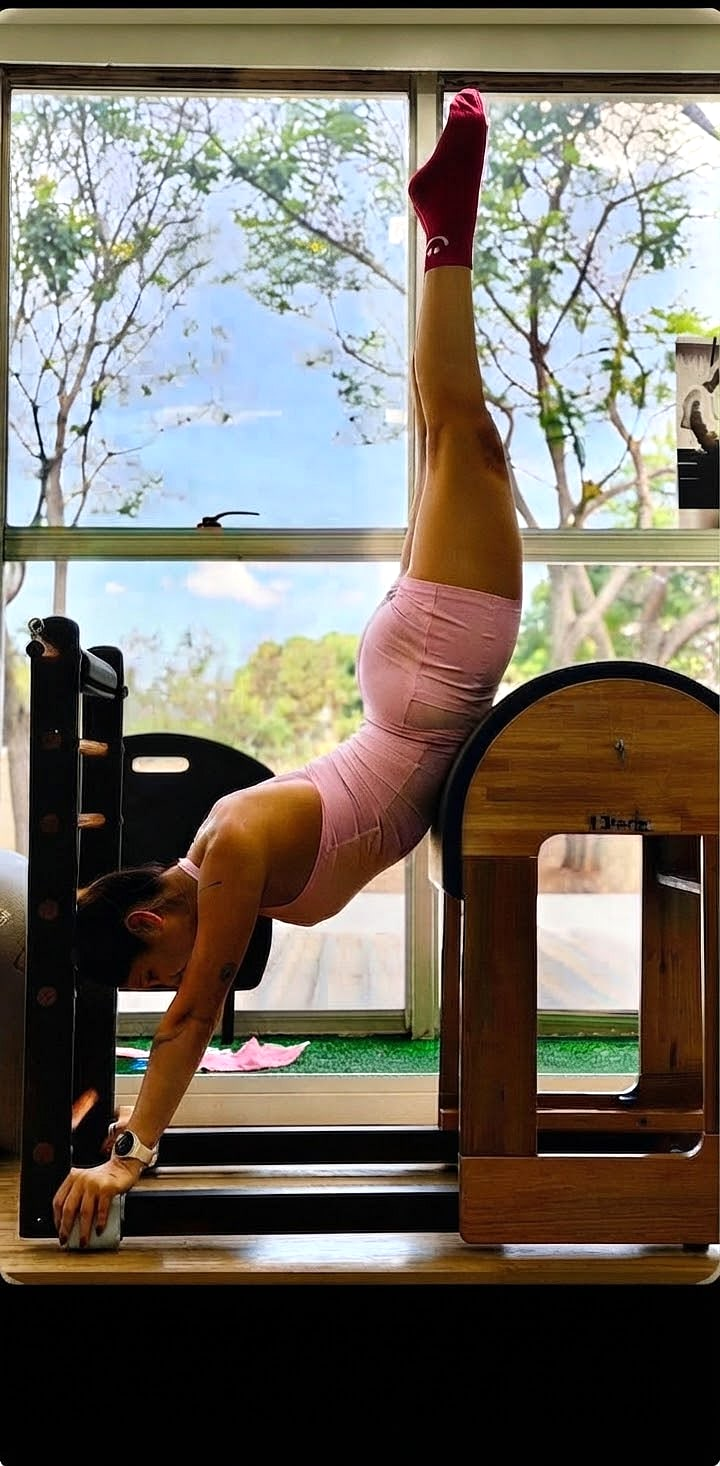
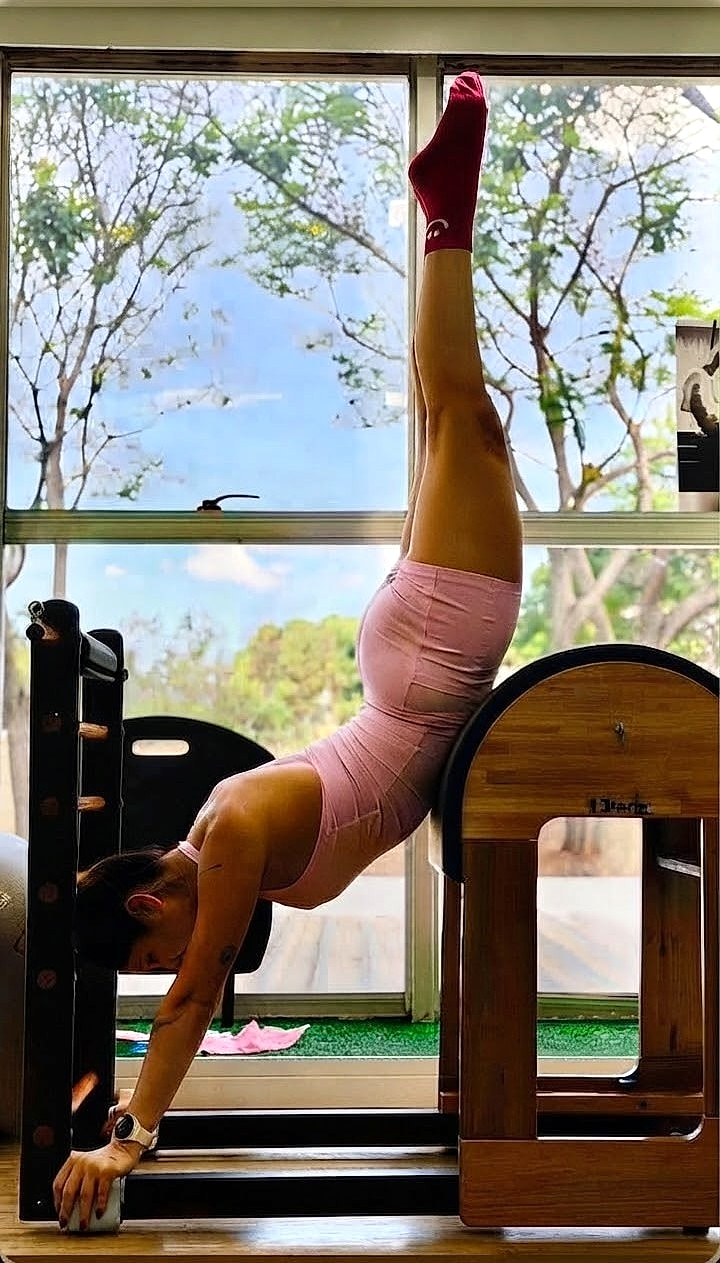
Foto de ação de Pilates: versão sem barra preta, clareada e no topo
- Emanoel tirou a barra preta de baixo; substitui pela nova (720x1263)
- Clareada (gamma + brilho) pra a aluna ficar mais visível contra a
  janela + nitidez; movida pro topo da galeria (mais destaque)
- SW v49

diff --git a/src/app/(site)/o-studio/page.tsx b/src/app/(site)/o-studio/page.tsx
@@ -14,11 +14,11 @@ import { Galeria } from "./Galeria";
 
 // Galeria em mosaico — cada foto no seu formato natural (sem corte).
 const galeria = [
+  { src: "/fotos/galeria/pilates-acao.jpg", w: 720, h: 1263 },
   { src: "/fotos/galeria/DSC02142.jpg", w: 2592, h: 4608 },
   { src: "/fotos/reabilitacao/DSC02103.jpg", w: 2592, h: 4608 },
   { src: "/fotos/galeria/MOVA-06.jpg", w: 4685, h: 3037 },
   { src: "/fotos/galeria/spin-sala.jpg", w: 720, h: 1280 },
-  { src: "/fotos/galeria/pilates-acao.jpg", w: 720, h: 1466 },
   { src: "/fotos/reabilitacao/DSC00600.jpg", w: 4128, h: 6192 },
   { src: "/fotos/galeria/pilates-sala.jpg", w: 720, h: 1280 },
   { src: "/fotos/galeria/studio-mova-43.jpg", w: 4774, h: 3184 },

diff --git a/public/sw.js b/public/sw.js
@@ -1,7 +1,7 @@
 // Service Worker do Studio MOVA (PWA).
 // Estratégia: navegações = network-first (conteúdo sempre atual, com
 // fallback offline); assets estáticos = cache-first (rápido e offline).
-const CACHE = "mova-v48";
+const CACHE = "mova-v49";
 const OFFLINE_URL = "/offline";
 
 self.addEventListener("install", (event) => {
